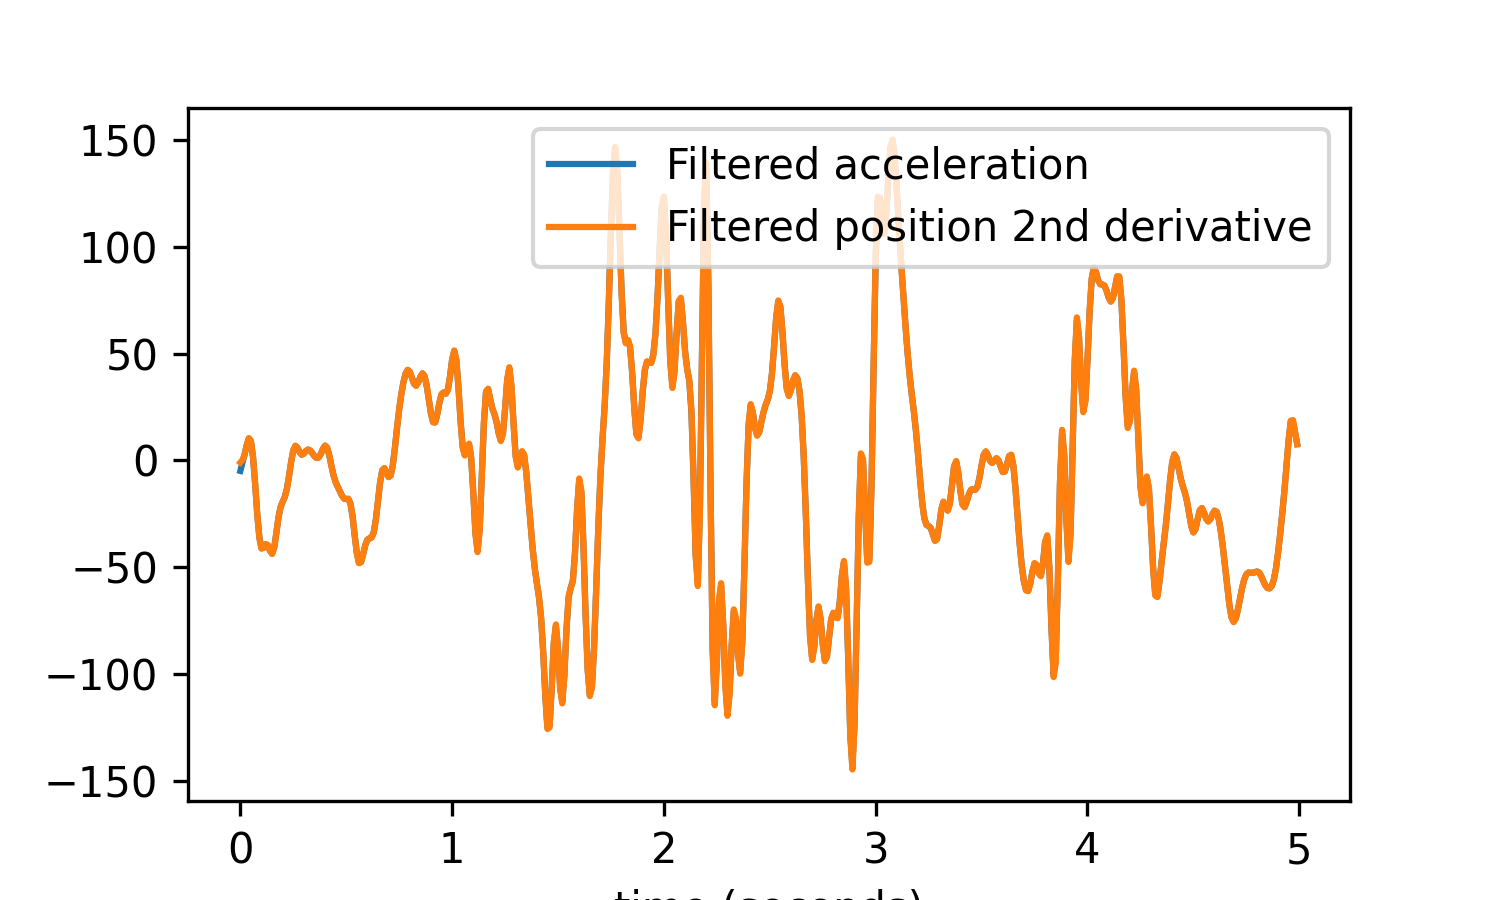
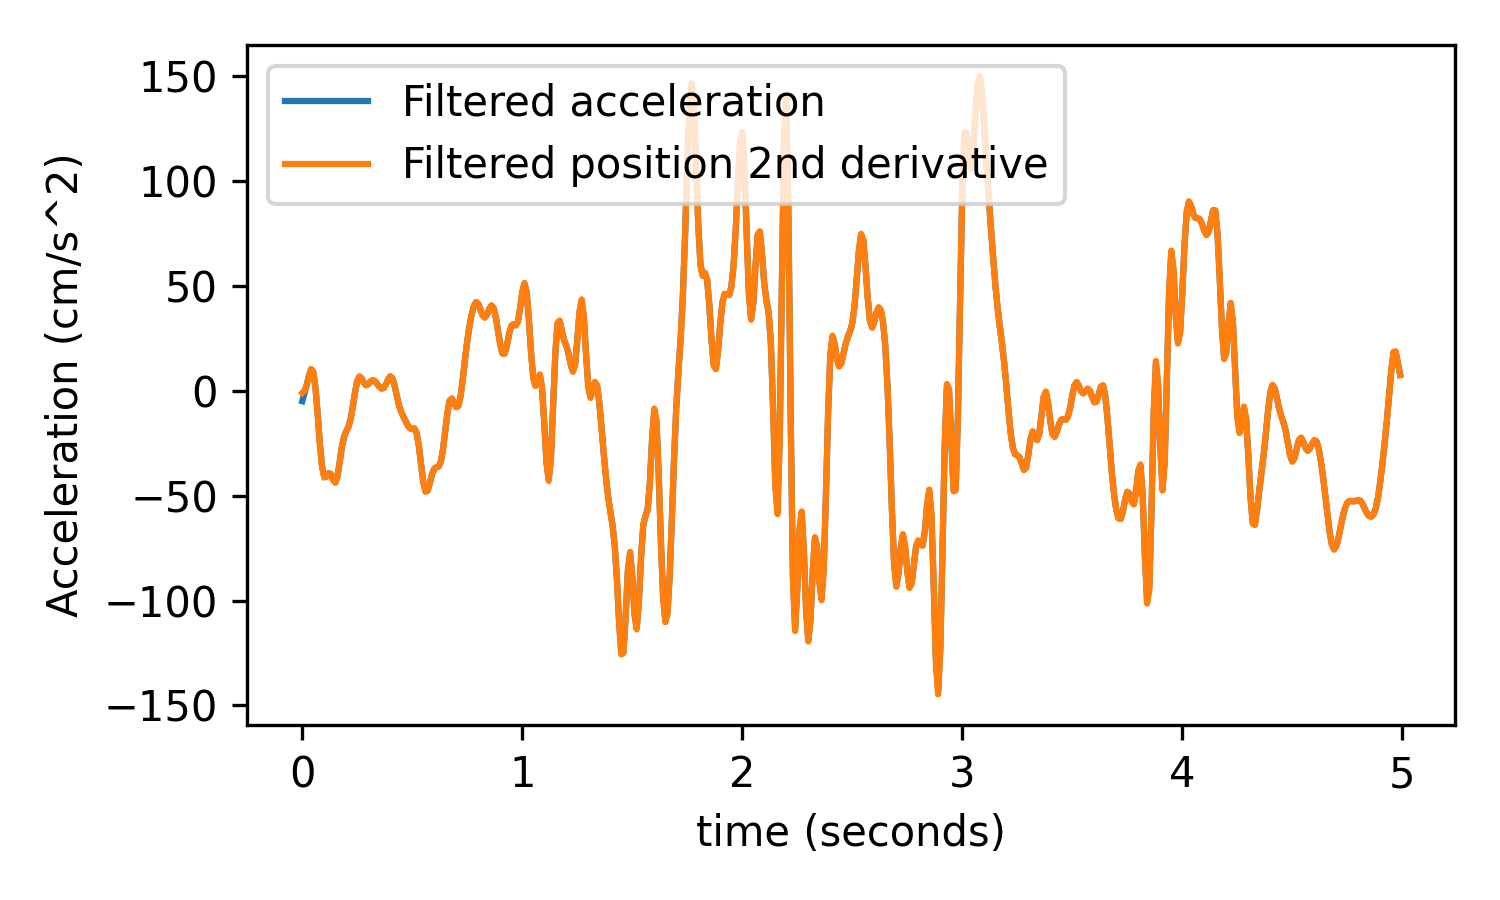
cleanup

diff --git a/aopy/precondition/base.py b/aopy/precondition/base.py
@@ -801,6 +801,7 @@ def filter_kinematics(kinematic_data, samplerate, low_cut=15, buttord=4,
             Default is 0, no derivative.
         savgol_window_ms (float, optional): window length for Savitzky-Golay filter in milliseconds.
             Default is 50 ms. If the window length is too small, it will be set to 3 samples.
+        savgol_polyorder (int, optional): polynomial order for Savitzky-Golay filter. Default is 3.
         norm (bool, optional): if True, return the norm of the filtered data. Default is False.
 
     Returns:
@@ -852,14 +853,17 @@ def filter_kinematics(kinematic_data, samplerate, low_cut=15, buttord=4,
             # Compare to a simple derivative of the filtered position
             x_filt_pos_deriv = utils.derivative(t, x_filt_pos, norm=False)
 
-            plt.figure(figsize=(5, 6))
-            plt.subplot(3,1,1)
+            plt.figure(figsize=(5, 4))
+            plt.subplot(2,1,1)
             plt.plot(t, x, label='Original signal')
             plt.plot(t, x_filt_pos, label='Filtered position')
-            plt.subplot(3,1,2)
+            plt.ylabel('Position (cm)')
+            plt.legend()
+            plt.subplot(2,1,2)
             plt.plot(t, x_filt_vel, label='Filtered velocity')
             plt.plot(t, x_filt_pos_deriv, label='Filtered position derivative')
             plt.xlabel('time (seconds)')
+            plt.ylabel('Velocity (cm/s)')
             plt.legend()
             
         .. image:: _images/filter_kinematics_speed.png
@@ -874,7 +878,9 @@ def filter_kinematics(kinematic_data, samplerate, low_cut=15, buttord=4,
             plt.plot(t, x_filt_acc, label='Filtered acceleration')
             plt.plot(t, x_filt_pos_deriv_deriv, label='Filtered position 2nd derivative')
             plt.xlabel('time (seconds)')
+            plt.ylabel('Acceleration (cm/s^2)')
             plt.legend()
+            plt.tight_layout()
 
         .. image:: _images/filter_kinematics_accel.png
         

diff --git a/tests/test_precondition.py b/tests/test_precondition.py
@@ -335,14 +335,17 @@ class FilterTests(unittest.TestCase):
         # Compare to a simple derivative of the filtered position
         x_filt_pos_deriv = utils.derivative(t, x_filt_pos, norm=False)
 
-        plt.figure(figsize=(5, 6))
-        plt.subplot(3,1,1)
+        plt.figure(figsize=(5, 4))
+        plt.subplot(2,1,1)
         plt.plot(t, x, label='Original signal')
         plt.plot(t, x_filt_pos, label='Filtered position')
-        plt.subplot(3,1,2)
+        plt.ylabel('Position (cm)')
+        plt.legend()
+        plt.subplot(2,1,2)
         plt.plot(t, x_filt_vel, label='Filtered velocity')
         plt.plot(t, x_filt_pos_deriv, label='Filtered position derivative')
         plt.xlabel('time (seconds)')
+        plt.ylabel('Velocity (cm/s)')
         plt.legend()
         
         fname = 'filter_kinematics_speed.png'
@@ -356,7 +359,9 @@ class FilterTests(unittest.TestCase):
         plt.plot(t, x_filt_acc, label='Filtered acceleration')
         plt.plot(t, x_filt_pos_deriv_deriv, label='Filtered position 2nd derivative')
         plt.xlabel('time (seconds)')
+        plt.ylabel('Acceleration (cm/s^2)')
         plt.legend()
+        plt.tight_layout()
         
         fname = 'filter_kinematics_accel.png'
         savefig(docs_dir, fname, transparent=False)
